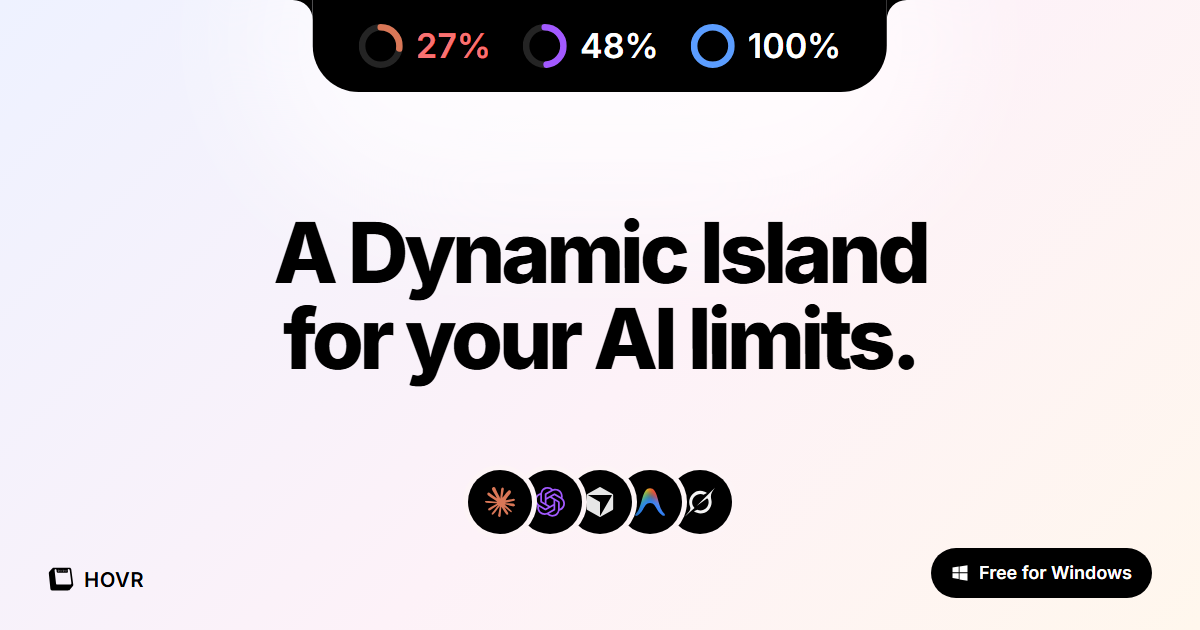
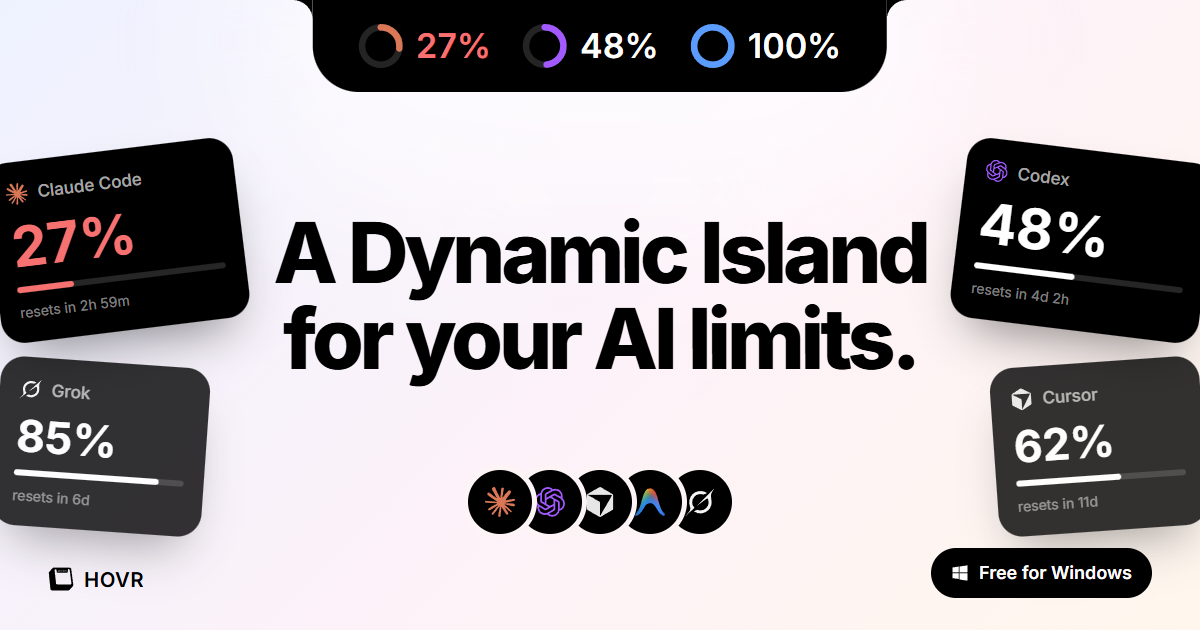
feat(website): fill OG card sides with tilted tool cards

Changed region(s): [[0.7708, 0.2111, 1.0, 0.8746], [0.0, 0.2111, 0.2158, 0.9048]]

diff --git a/website/src/components/OgLight.tsx b/website/src/components/OgLight.tsx
@@ -81,9 +81,30 @@ function V1() {
           ))}
         </div>
       </div>
+      <SideCard id="claude" name="Claude Code" left={27} note="resets in 2h 59m" className="left-[-8px] top-[150px] -rotate-[7deg]" />
+      <SideCard id="grok" name="Grok" left={85} note="resets in 6d" className="left-[-4px] top-[362px] rotate-[4deg]" small />
+      <SideCard id="codex" name="Codex" left={48} note="resets in 4d 2h" className="right-[-8px] top-[150px] rotate-[7deg]" />
+      <SideCard id="cursor" name="Cursor" left={62} note="resets in 11d" className="right-[-4px] top-[362px] -rotate-[4deg]" small />
       <Brand className="absolute bottom-9 left-12" />
       <Free className="absolute bottom-8 right-12" />
     </Stage>
+  )
+}
+
+function SideCard({ id, name, left, note, className = '', small }: { id: ProviderId; name: string; left: number; note: string; className?: string; small?: boolean }) {
+  const low = left < 30
+  return (
+    <div className={`absolute ${small ? 'w-[210px] opacity-80' : 'w-[250px]'} rounded-[24px] bg-black p-5 text-white shadow-[0_28px_50px_-20px_rgba(0,0,0,0.45)] ${className}`}>
+      <div className="flex items-center gap-2.5 text-[17px] font-medium text-white/65">
+        <ProviderLogo id={id} size={22} />
+        {name}
+      </div>
+      <p className={`mt-3 font-bold leading-none ${small ? 'text-[44px]' : 'text-[56px]'} ${low ? 'text-[#f87171]' : 'text-white'}`}>{left}%</p>
+      <div className="mt-3 h-1.5 overflow-hidden rounded-full bg-white/15">
+        <div className={`h-full rounded-full ${low ? 'bg-[#f87171]' : 'bg-white'}`} style={{ width: `${left}%` }} />
+      </div>
+      <p className="mt-2.5 text-[14px] text-white/50">{note}</p>
+    </div>
   )
 }
 
